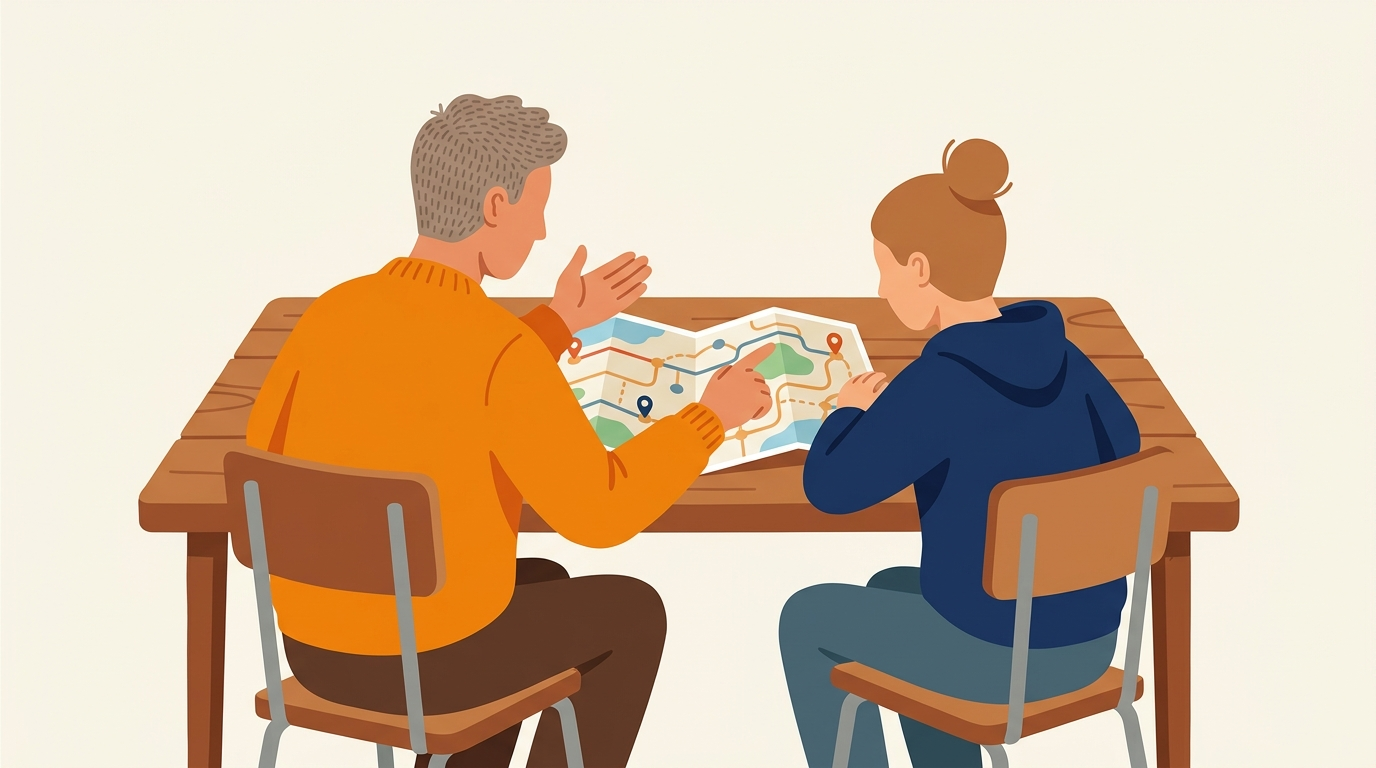
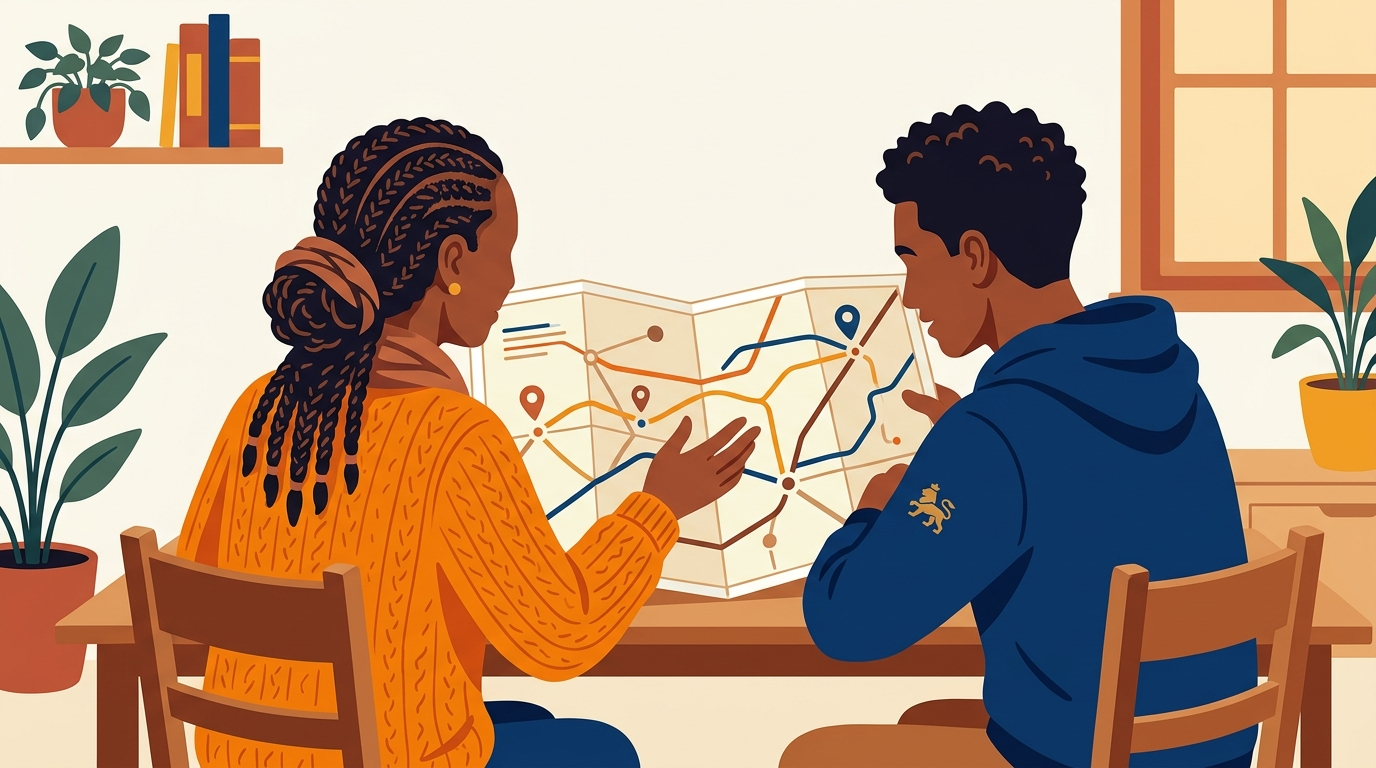
feat: support illustration regenerated with Ethiopian-Israeli characters (Nati 25.8), tools slide = 'האנשים והכלים', Yehonatan story card gets real Tech-Career photo from the article itself

diff --git a/src/app/onboarding/page.tsx b/src/app/onboarding/page.tsx
@@ -264,12 +264,12 @@ const TOUR_SLIDES: TourSlideDef[] = [
     bg: "#f2ede6",
     icon: "app",
     hero: "/tour/support.jpeg",
-    headline: "הכלים שילוו אותך",
+    headline: "האנשים והכלים שילוו אותך",
     appTabs: [
       { sym: "⊞", label: "המסע", desc: "לדעת בכל רגע איפה את/ה — ולחזור לכל מקום שהיית" },
       { sym: "⊙", label: "הצעד שלך", desc: "טאב שמתקדם איתך: טעימות ← מסלול ← תוכנית. תמיד מוביל למה שעכשיו" },
       { sym: "?", label: "שאלות", desc: "כמה טעימות צריך? כמה זה עולה? פספסתי פגישה? — תשובות ישרות, בלי אותיות קטנות" },
-      { sym: "◉", label: "רכזת", desc: "אדם אמיתי, מהפגישה הראשונה ועד ההרשמה" },
+      { sym: "◉", label: "רכזת", desc: "בן-אדם אמיתי שמכיר אותך — פגישות, וואטסאפ, ותשובות מדויקות לך" },
     ],
   },
 ];
